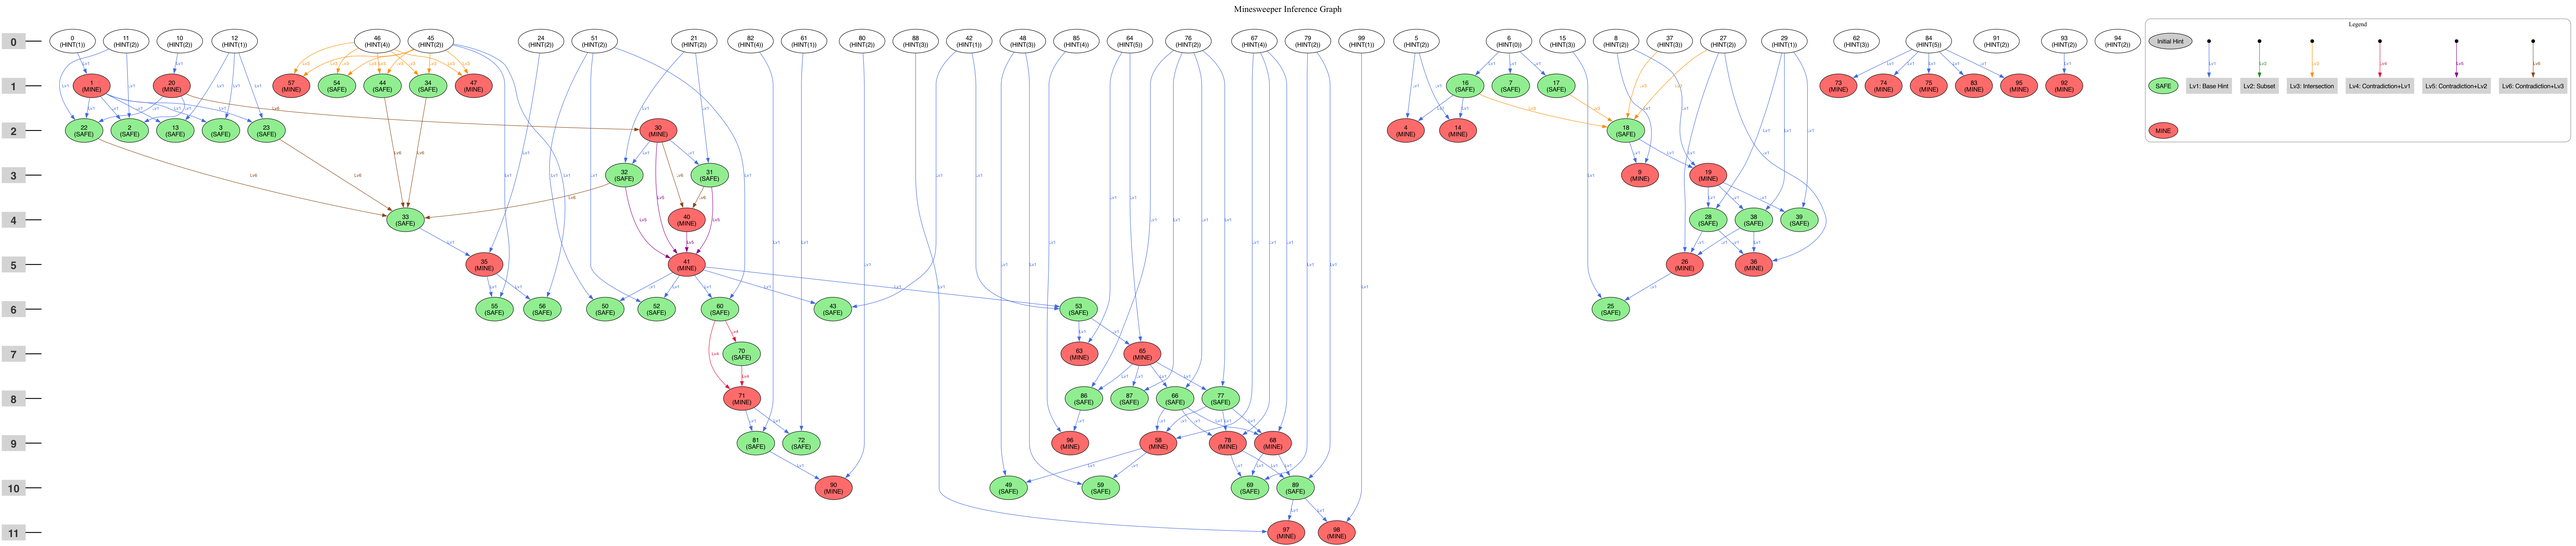
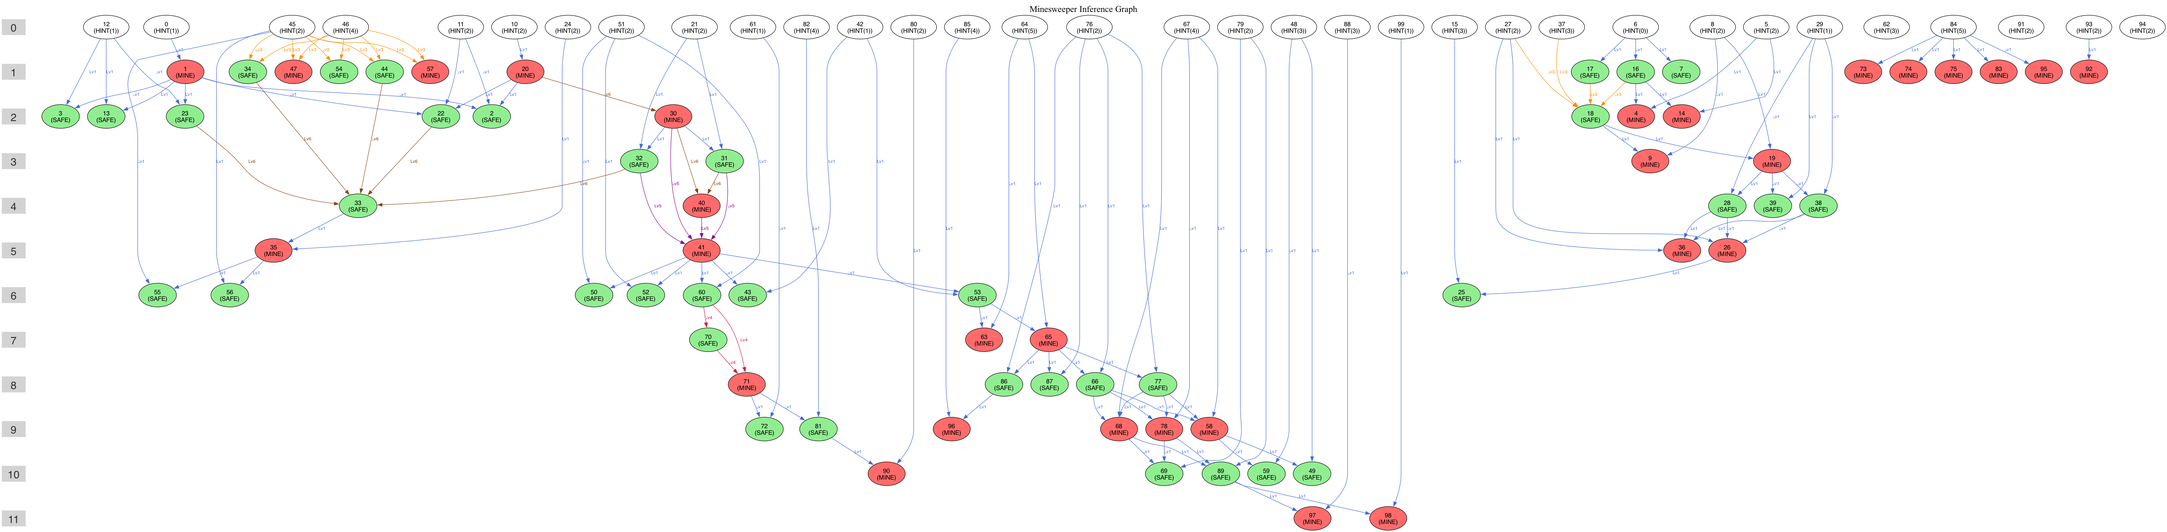
ヒント数出力を追加

diff --git a/src/Main.java b/src/Main.java
@@ -16,41 +16,38 @@ public class Main {
             PuzzleMinimizer pm = new PuzzleMinimizer(board, size);
             int[] puzzle = pm.minimizeHints();
 
-            System.out.println("\n===== 生成された問題 (盤面" + (i + 1) + ") =====");
+            System.out.println("\n===== 生成された問題 (盤面" + (i + 1) + ", ヒント数=" + pm.getHintCount() + ") =====");
             PuzzleGenerator.printBoard(puzzle, size);
 
-            // --- HintCountCalculator 解析 ---
-            System.out.println("\n--- [HintCountCalculator] 難易度解析実行中... ---");
-            HintCountCalculator calculator = new HintCountCalculator(puzzle, board, size);
-            calculator.calculate();
-            int[] kHintDifficulties = calculator.getDifficultyMap();
+            // // --- HintCountCalculator 解析 ---
+            // System.out.println("\n--- [HintCountCalculator] 難易度解析実行中... ---");
+            // HintCountCalculator calculator = new HintCountCalculator(puzzle, board,
+            // size);
+            // calculator.calculate();
+            // int[] kHintDifficulties = calculator.getDifficultyMap();
 
-            System.out.println("--- 解析結果 (k-Hint) ---");
-            printAnalysis(puzzle, kHintDifficulties, size);
+            // System.out.println("--- 解析結果 (k-Hint) ---");
+            // printAnalysis(puzzle, kHintDifficulties, size);
 
-            // --- TechniqueAnalyzer 解析 ---
-            System.out.println("\n--- [TechniqueAnalyzer] テクニック解析実行中... ---");
-            TechniqueAnalyzer analyzer = new TechniqueAnalyzer(puzzle, board, size);
-            analyzer.analyze();
-            int[] taDifficulties = analyzer.getDifficultyMap();
+            // // --- TechniqueAnalyzer 解析 ---
+            // System.out.println("\n--- [TechniqueAnalyzer] テクニック解析実行中... ---");
+            // TechniqueAnalyzer analyzer = new TechniqueAnalyzer(puzzle, board, size);
+            // analyzer.analyze();
+            // int[] taDifficulties = analyzer.getDifficultyMap();
 
-            System.out.println("\n--- 解析結果 (Technique Level) ---");
-            printAnalysis(puzzle, taDifficulties, size);
+            // System.out.println("\n--- 解析結果 (Technique Level) ---");
+            // printAnalysis(puzzle, taDifficulties, size);
 
-            // --- ヒートマップ用データ出力 ---
-            System.out.println("\n--- Exporting data for heatmap... ---");
-            BoardExporter.exportToCSV(
-                    "analysis_data_" + (i + 1) + ".csv",
-                    size,
-                    board, // 正解盤面
-                    puzzle, // 問題盤面
-                    taDifficulties, // Technique Level
-                    kHintDifficulties // k-Hint
-            );
-
-            System.out.println("\nTo generate heatmap, run:");
-            System.out.println(
-                    "  python heatmap_generator.py analysis_data_" + (i + 1) + ".csv heatmap_" + (i + 1) + ".png");
+            // // --- ヒートマップ用データ出力 ---
+            // System.out.println("\n--- Exporting data for heatmap... ---");
+            // BoardExporter.exportToCSV(
+            // "analysis_data_" + (i + 1) + ".csv",
+            // size,
+            // board, // 正解盤面
+            // puzzle, // 問題盤面
+            // taDifficulties, // Technique Level
+            // kHintDifficulties // k-Hint
+            // );
         }
     }
 

diff --git a/src/PuzzleMinimizer.java b/src/PuzzleMinimizer.java
@@ -1,23 +1,22 @@
 import java.util.*;
 
-// ヒント集合の最小化
 public class PuzzleMinimizer {
     int[] board;
     private int n;
     private List<String> anslist;
+    private int hintCount; // 最小化後のヒント数
 
-    // 1. 正解のリストを作成(DLXで得られる解の形式に合わせる)
-    // 2. ヒント数字を隠すたびに正解のリストを更新, ソート
-    // 3. DLXで得られた解のリストを作成,ソート -> finalAnswerListで良さそう
-    // 4. 正解のリストとDLXで得られた解のリストを比較
-
-    // コンストラクタ
     public PuzzleMinimizer(int[] board, int n) {
         this.board = Arrays.copyOf(board, n * n);
         this.n = n;
+        this.hintCount = 0;
     }
 
-    // 正解のリストを作成する
+    // ヒント数を取得
+    public int getHintCount() {
+        return hintCount;
+    }
+
     private void makeAnslist() {
         anslist = new ArrayList<String>();
         for (int i = 0; i < n * n; i++) {
@@ -28,58 +27,54 @@ public class PuzzleMinimizer {
 
     public int[] minimizeHints() {
         int size = n * n;
-        List<Integer> safeCells = new ArrayList<>(); // 地雷のないセルを入れる
+        List<Integer> safeCells = new ArrayList<>();
 
-        // 正解のリストを作成
         makeAnslist();
 
-        // 地雷の無いセルを収集
         for (int i = 0; i < size; i++) {
             if (board[i] != -1)
                 safeCells.add(i);
         }
 
-        // シャッフル
         Collections.shuffle(safeCells, new Random());
 
-        // 順番にヒントを隠す
         for (int cell : safeCells) {
             int backup = board[cell];
             board[cell] = -1;
 
-            // 正解のリストに隠したセルが地雷でないことを追加・ソート
             anslist.add(cell + "#0");
             Collections.sort(anslist);
 
-            // 唯一解を推論できるか確認
             if (!isUniqueSolvable(board, n)) {
-                // できなければ隠したヒントを戻す, 正解のリストに追加したものを削除
                 board[cell] = backup;
                 anslist.remove(cell + "#0");
+            }
+        }
+
+        // ヒント数をカウントしてフィールドに保存
+        hintCount = 0;
+        for (int i = 0; i < size; i++) {
+            if (board[i] >= 0) {
+                hintCount++;
             }
         }
 
         return board;
     }
 
-    // 解が一意に得られるか確認
     private boolean isUniqueSolvable(int[] board, int n) {
-        ConstraintBuilder builder = new ConstraintBuilder(board, n); // 制約行列, 制約配列を作成
+        ConstraintBuilder builder = new ConstraintBuilder(board, n);
         ConstraintBuilder.Data data = builder.buildConstraints();
 
         int[][] matrix = data.matrix;
         int[] constraint = data.constraint;
         int blanks = data.blanks;
 
-        // 制約行列をCSV出力(デバッグ用)
-        // builder.exportToCSV("const.csv", matrix, constraint);
-
         DancingLinks dlx = new DancingLinks(matrix, constraint);
         dlx.runSolver();
 
         int[] ans = dlx.getAnswer();
 
-        // 解の出力・リスト化
         List<String> finalAnslist = new ArrayList<>();
 
         String[] rowLabels = builder.getRowLabels();

diff --git a/InferenceGraph.py b/InferenceGraph.py
@@ -149,7 +149,7 @@ def generate_dot(nodes: dict, edges: list[tuple], title: str = "Inference Graph"
     # 左端の深さラベル用ノードを定義
     lines.append("    // Depth labels (left side)")
     for depth in sorted(depths.keys()):
-        lines.append(f'    depth_label_{depth} [label="{depth}", shape=plaintext, fontsize=24, fontname="Helvetica-Bold", fontcolor="#333333"];')
+        lines.append(f'    depth_label_{depth} [label="{depth}", shape=plaintext, fontsize=24, fontname="Helvetica", fontcolor="#333333"];')
     lines.append("")
     
     # 水平線用の右端ノード（不可視）
@@ -185,11 +185,11 @@ def generate_dot(nodes: dict, edges: list[tuple], title: str = "Inference Graph"
         lines.append("    }")
         lines.append("")
     
-    # 水平線（深さラベルから右端への太い線）
-    lines.append("    // Horizontal separator lines")
-    for depth in sorted(depths.keys()):
-        lines.append(f'    depth_label_{depth} -> depth_right_{depth} [style=bold, color="#000000", arrowhead=none, weight=1000];')
-    lines.append("")
+    # # 水平線（深さラベルから右端への太い線）
+    # lines.append("    // Horizontal separator lines")
+    # for depth in sorted(depths.keys()):
+    #     lines.append(f'    depth_label_{depth} -> depth_right_{depth} [style=bold, color="#000000", arrowhead=none, weight=1000];')
+    # lines.append("")
     
     # 深さラベル間の順序を強制（不可視エッジ）
     lines.append("    // Force depth order")
@@ -206,35 +206,6 @@ def generate_dot(nodes: dict, edges: list[tuple], title: str = "Inference Graph"
         color = EDGE_COLORS.get(level, "#000000")
         label = f"Lv{level}"
         lines.append(f'    {from_cell} -> {to_cell} [label="{label}", color="{color}", fontcolor="{color}"];')
-    
-    lines.append("")
-    
-    # 凡例（Legend）- シンプル化
-    lines.append("    // Legend")
-    lines.append('    subgraph cluster_legend {')
-    lines.append('        label="Legend";')
-    lines.append('        fontsize=14;')
-    lines.append('        style=rounded;')
-    lines.append('        color="#888888";')
-    lines.append("")
-    lines.append("        // Node types")
-    lines.append(f'        legend_hint [label="Initial Hint", fillcolor="{NODE_COLORS["HINT"]}", shape=ellipse];')
-    lines.append(f'        legend_safe [label="SAFE", fillcolor="{NODE_COLORS["SAFE"]}", shape=ellipse];')
-    lines.append(f'        legend_mine [label="MINE", fillcolor="{NODE_COLORS["MINE"]}", shape=ellipse];')
-    lines.append("")
-    lines.append("        // Edge types (invisible edges for layout)")
-    lines.append("        legend_hint -> legend_safe -> legend_mine [style=invis];")
-    lines.append("")
-    
-    # エッジ凡例
-    for lv in range(1, 7):
-        color = EDGE_COLORS[lv]
-        name = LEVEL_NAMES[lv]
-        lines.append(f'        legend_lv{lv}_a [label="", shape=point, width=0.1];')
-        lines.append(f'        legend_lv{lv}_b [label="Lv{lv}: {name}", shape=plaintext];')
-        lines.append(f'        legend_lv{lv}_a -> legend_lv{lv}_b [label="Lv{lv}", color="{color}", fontcolor="{color}"];')
-    
-    lines.append("    }")
     
     lines.append("}")
     
